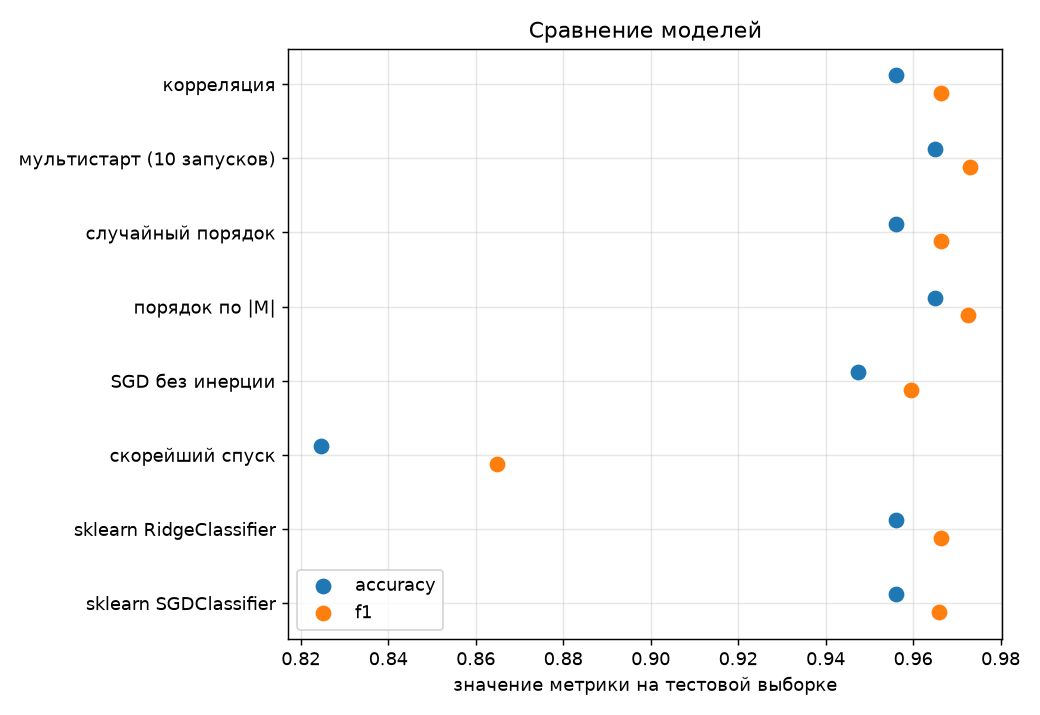
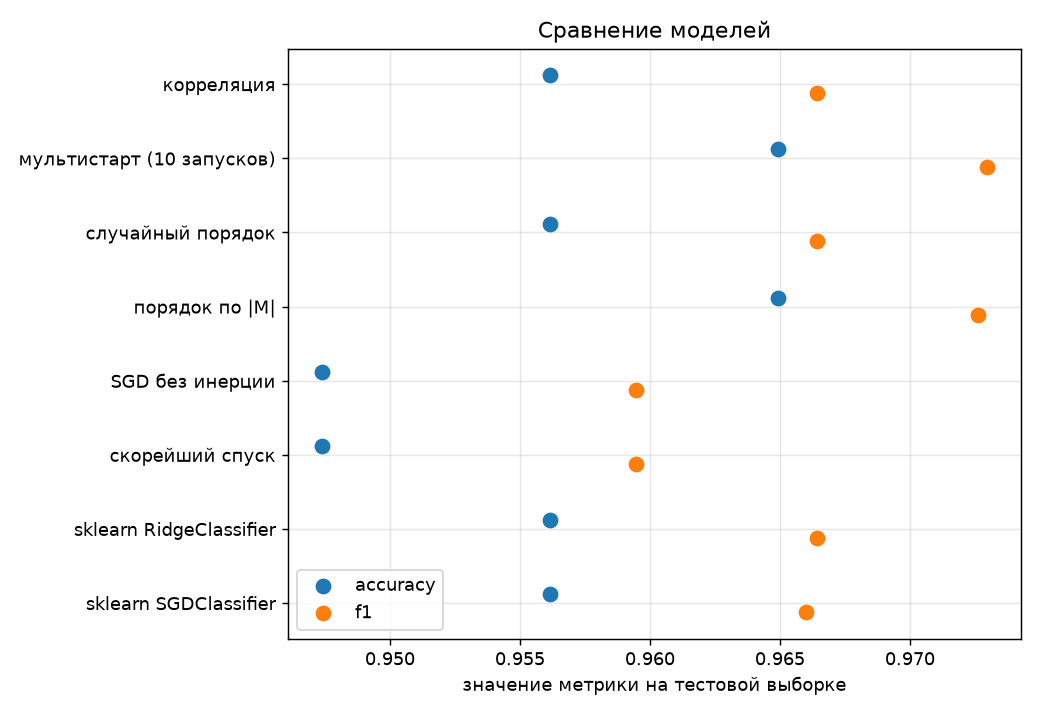
фикс реализации скорейшего спуска

diff --git a/students/konovalov-iv/lab1/source/linear_classifier.py b/students/konovalov-iv/lab1/source/linear_classifier.py
@@ -14,8 +14,13 @@ def loss_grad(w, x, y):
     return -2 * (1 - M) * y * x
 
 
-def steepest_step(x):
-    return 1.0 / (2 * (x @ x))
+def full_gradient(w, X, y, tau):
+    return -2 * (X.T @ (y * (1 - margin(w, X, y)))) / len(y) + tau * w
+
+
+def steepest_step(g, X, tau):
+    Xg = X @ g
+    return (g @ g) / (2 * (Xg @ Xg) / len(X) + tau * (g @ g))
 
 
 class LinearClassifier:
@@ -68,17 +73,16 @@ class LinearClassifier:
 
         history = {"Q": [], "Q_epoch": [], "train_acc": [], "val_acc": []}
         w_init = w.copy()
+        if self.step == "steepest":
+            return self._fit_steepest(X, y, w, w_init, history, X_val, y_val)
         for _ in range(self.n_epochs):
             Q_prev = Q
             for i in self._epoch_order(w, X, y, rng):
                 x_i, y_i = X[i], y[i]
                 xi = loss((x_i @ w) * y_i)
                 g = loss_grad(w, x_i, y_i)
-                if self.step == "steepest":
-                    h, v = steepest_step(x_i), g
-                else:
-                    h = self.lr
-                    v = self.momentum * v + (1 - self.momentum) * g
+                h = self.lr
+                v = self.momentum * v + (1 - self.momentum) * g
                 w = w * (1 - h * self.tau) - h * v
 
                 Q = lam * xi + (1 - lam) * Q
@@ -95,6 +99,30 @@ class LinearClassifier:
         self.w = w
         self.history = history
         return self
+
+    def _fit_steepest(self, X, y, w, w_init, history, X_val, y_val):
+        Q_prev = self.empirical_risk_of(w, X, y)
+        for _ in range(self.n_epochs):
+            g = full_gradient(w, X, y, self.tau)
+            w = w - steepest_step(g, X, self.tau) * g
+            Q = self.empirical_risk_of(w, X, y)
+            history["Q"].append(Q)
+            history["Q_epoch"].append(Q)
+            history["train_acc"].append(np.mean(self._sign(X @ w) == y))
+            if X_val is not None:
+                history["val_acc"].append(np.mean(self._sign(X_val @ w) == y_val))
+            if abs(Q - Q_prev) < self.tol:
+                break
+            Q_prev = Q
+
+        self.w_init = w_init
+        self.w = w
+        self.history = history
+        return self
+
+    @staticmethod
+    def empirical_risk_of(w, X, y):
+        return loss(margin(w, X, y)).mean()
 
     @staticmethod
     def _sign(z):

diff --git a/students/konovalov-iv/lab1/source/plots.py b/students/konovalov-iv/lab1/source/plots.py
@@ -30,15 +30,19 @@ def plot_margins(margins_by_title, path):
     plt.close(fig)
 
 
-def plot_training(models_by_label, path, title):
+def plot_training(models_by_label, path, title, per_epoch=False):
     fig, (ax_q, ax_acc) = plt.subplots(1, 2, figsize=(12, 4))
     for label, model in models_by_label.items():
-        ax_q.plot(model.history["Q"], label=label)
+        if per_epoch:
+            q = model.history["Q_epoch"]
+            ax_q.plot(np.arange(1, len(q) + 1), q, label=label)
+        else:
+            ax_q.plot(model.history["Q"], label=label)
         epochs = np.arange(1, len(model.history["val_acc"]) + 1)
         ax_acc.plot(epochs, model.history["val_acc"], label=label)
     ax_q.set_yscale("log")
-    ax_q.set_xlabel("итерация (предъявленный объект)")
-    ax_q.set_ylabel("рекуррентная оценка Q (лог. шкала)")
+    ax_q.set_xlabel("эпоха" if per_epoch else "итерация (предъявленный объект)")
+    ax_q.set_ylabel("Q в конце эпохи (лог. шкала)" if per_epoch else "рекуррентная оценка Q (лог. шкала)")
     ax_q.set_title("Сходимость функционала Q")
     ax_acc.set_xlabel("эпоха")
     ax_acc.set_ylabel("accuracy на тесте")

diff --git a/students/konovalov-iv/lab1/source/main.py b/students/konovalov-iv/lab1/source/main.py
@@ -93,8 +93,8 @@ def main():
                   IMAGES / "training_order.png", "Порядок предъявления объектов")
     plot_training({"SGD с инерцией, γ = 0.9": models["случайный порядок"],
                    "SGD без инерции": models["SGD без инерции"],
-                   "скорейший спуск, h* = 1/(2‖x‖²)": models["скорейший спуск"]},
-                  IMAGES / "training_step.png", "Инерция и выбор шага")
+                   "скорейший спуск": models["скорейший спуск"]},
+                  IMAGES / "training_step.png", "Инерция и выбор шага", per_epoch=True)
     plot_multistart(risks, IMAGES / "multistart.png")
     plot_comparison(results, IMAGES / "comparison.png")
     print(f"\nграфики сохранены в {IMAGES}")

diff --git a/students/konovalov-iv/lab1/README.md b/students/konovalov-iv/lab1/README.md
@@ -30,11 +30,10 @@
 
 **L2-регуляризация**: `w := w(1 − hτ) − h·v`, `τ = 10⁻³`.
 
-**Скорейший градиентный спуск.** Шаг подбирается из условия `L(w − h∇L(w, x_i), x_i) → min_h`.
-После шага отступ становится `M' = M + 2h(1 − M)‖x_i‖²`, значит
-`1 − M' = (1 − M)(1 − 2h‖x_i‖²)` и минимум достигается при **`h* = 1 / (2‖x_i‖²)`**. `h*` выведен для шага
-по градиенту, поэтому в этом режиме инерция не используется: с накопленным `v` такой шаг
-перелетает минимум и процесс расходится (проверено экспериментально).
+**Скорейший градиентный спуск** (по полному градиенту). Для `Q(w) = (1/ℓ)Σ(1 − M_i)² + (τ/2)‖w‖²`
+градиент `g = −(2/ℓ)Xᵀ(y(1 − M)) + τw`, гессиан `H = (2/ℓ)XᵀX + τI` постоянен (`Q` квадратичен).
+Шаг вдоль `g` подбирается точно из условия `Q(w − hg) → min_h`:
+**`h* = gᵀg / gᵀHg`**. Одна итерация - один шаг по всей выборке, инерция не используется.
 
 **Инициализация весов:**
 - случайная: `w_j ~ U[−1/(2n), 1/(2n)]`;
@@ -96,10 +95,9 @@
 - SGD с инерцией и без почти совпадают: в формулировке лекции `v` — скользящее среднее
   градиента, длина шага от этого не меняется, а при маленьком `h` траектория и так гладкая.
   Инерция немного сглаживает шум и позволила раньше выполнить критерий останова (41 эпоха против 100).
-- Скорейший спуск на каждом шаге подгоняет отступ текущего объекта ровно к 1 (`M' = 1`) и тем
-  самым «забывает» предыдущие объекты. Шаг не убывает, поэтому процесс не сходится, а колеблется:
-  `Q ≈ 0.65`, точность на тесте скачет от 0.72 до 0.97. Для стохастического градиента такой шаг
-  слишком агрессивен; его нужно дополнять убывающим множителем или использовать только на первых итерациях.
+- Скорейший спуск (по полному градиенту) монотонно снижает `Q` (0.37 после первой итерации,
+  0.22 к сотой) и держит accuracy на тесте 0.95-0.97: каждая итерация гарантированно уменьшает `Q`.
+  Для сравнения по оси эпох у SGD взято `Q` в конце эпохи.
 
 ## Качество классификации и сравнение с эталоном
 
@@ -112,7 +110,7 @@
 | случайный порядок | 0.956 | 0.935 | 1.000 | 0.966 | 0.215 | 41 | 0.10 |
 | порядок по \|M\| | **0.965** | **0.959** | 0.986 | **0.973** | 0.242 | 100 | 0.26 |
 | SGD без инерции | 0.947 | 0.934 | 0.986 | 0.959 | 0.216 | 100 | 0.25 |
-| скорейший спуск | 0.825 | 0.842 | 0.889 | 0.865 | 0.524 | 100 | 0.23 |
+| скорейший спуск | 0.947 | 0.934 | 0.986 | 0.959 | 0.218 | 100 | 0.00 |
 | sklearn RidgeClassifier | 0.956 | 0.935 | 1.000 | 0.966 | — | — | 0.00 |
 | sklearn SGDClassifier | 0.956 | 0.947 | 0.986 | 0.966 | — | — | 0.00 |
 
@@ -141,5 +139,6 @@
 4. Предъявление объектов по модулю отступа повышает точность за счёт пограничных объектов,
    хотя средняя квадратичная потеря при этом растёт.
 5. Инерция в форме скользящего среднего градиента почти не влияет на результат при малом шаге.
-6. Скорейший спуск с шагом `h* = 1/(2‖x‖²)` на отдельных объектах не сходится: без убывания шага
-   он только колеблется. Это худший вариант.
+6. Скорейший спуск по полному градиенту с точным шагом `gᵀg / gᵀHg` работает на уровне остальных
+   (accuracy 0.947, `Q = 0.218`), но за 100 итераций ещё не дошёл до минимума: сходится медленно
+   из-за зигзагообразной траектории на плохо обусловленной задаче.
